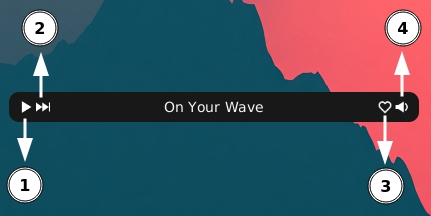
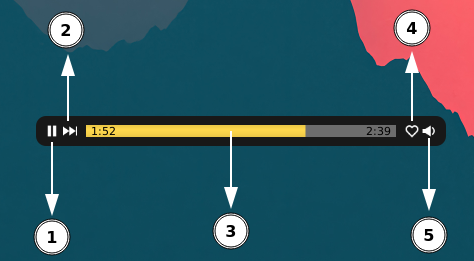
update: Image of controls, README.md

diff --git a/README.md b/README.md
@@ -549,8 +549,9 @@ volume: 0.3</pre>
 
 1. Воспроизведение/Пауза.
 2. Переключение трека.
-3. Добавить/Убрать трек в/из "Мне нравится".
-4. Управление громкостью. При нажатии включает/отключает звук. При прокручивании колеса мыши - изменение уровня громкости.
+3. Индикатор проигрывания. При нажатии изменяет текущее время проигрывания.
+4. Добавить/Убрать трек в/из "Мне нравится".
+5. Управление громкостью. При нажатии включает/отключает звук. При прокручивании колеса мыши - изменение уровня громкости.
 
 ## Контекстное меню
 Вызов контекстного меню осуществляется по нажатию правой кнопкой мыши в крайней правой/левой области плеера, включая область с элементами управления.
